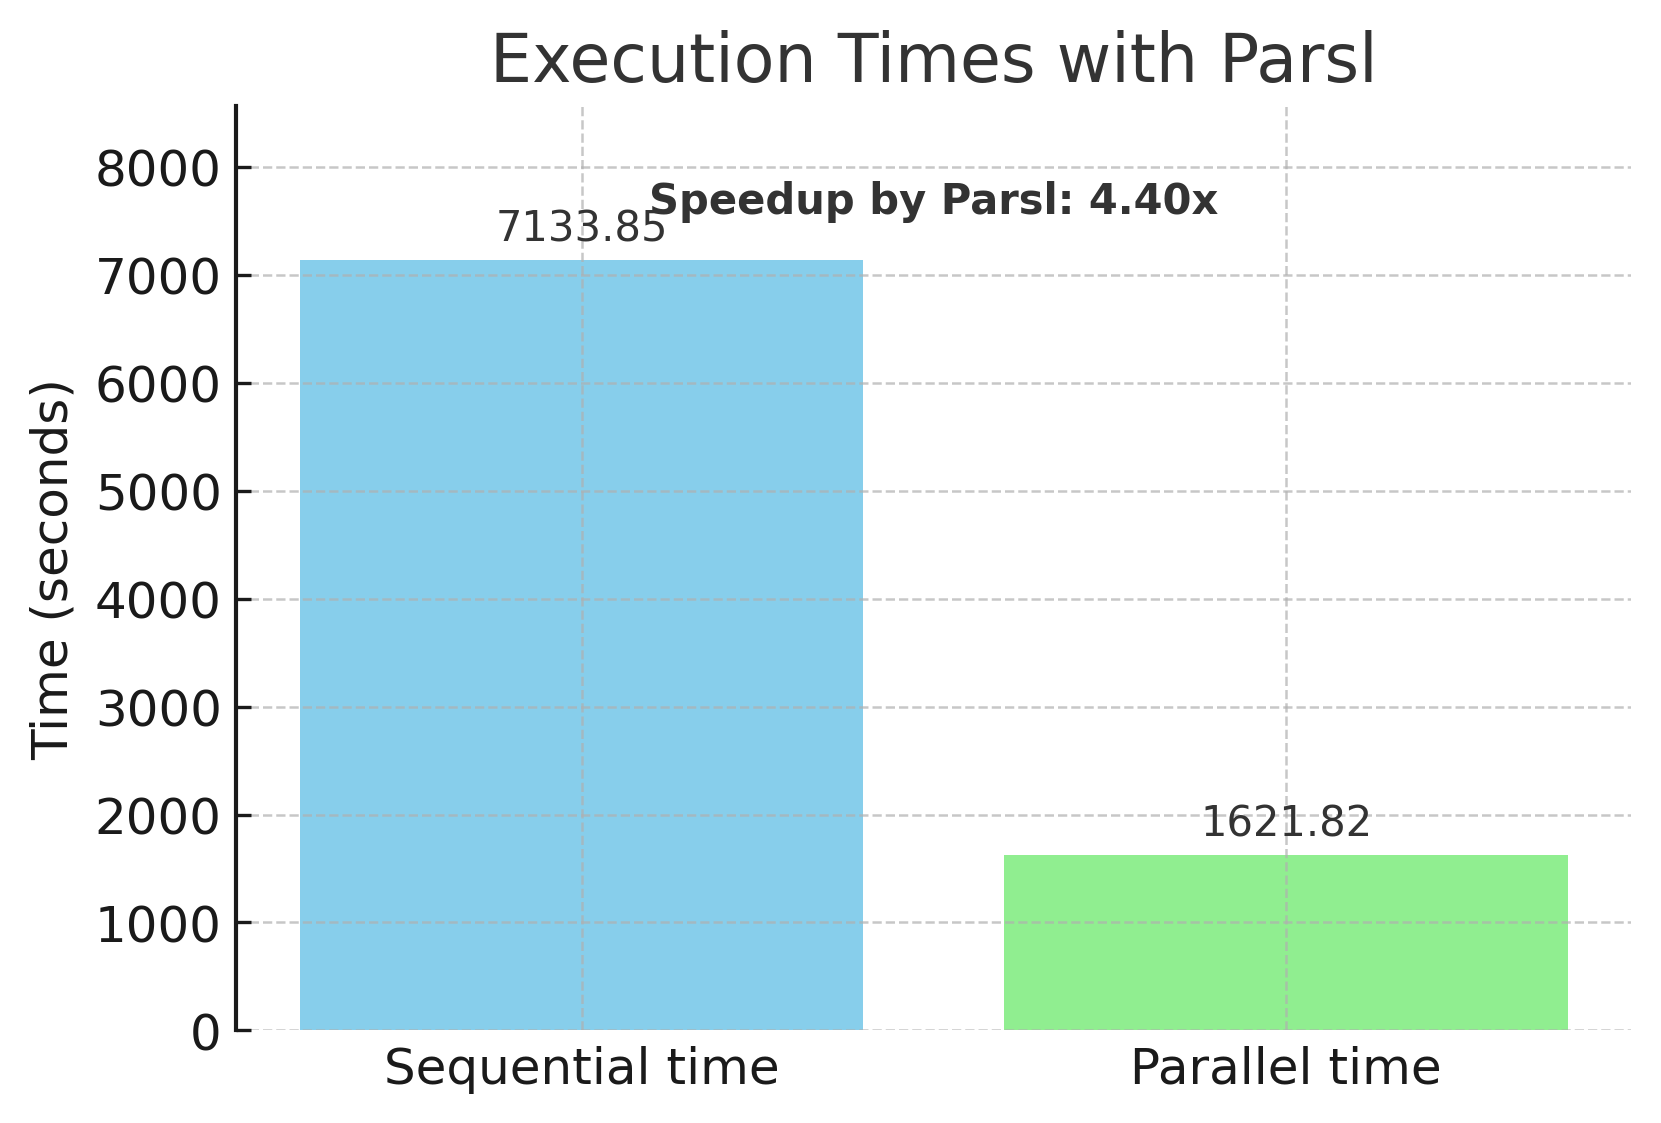
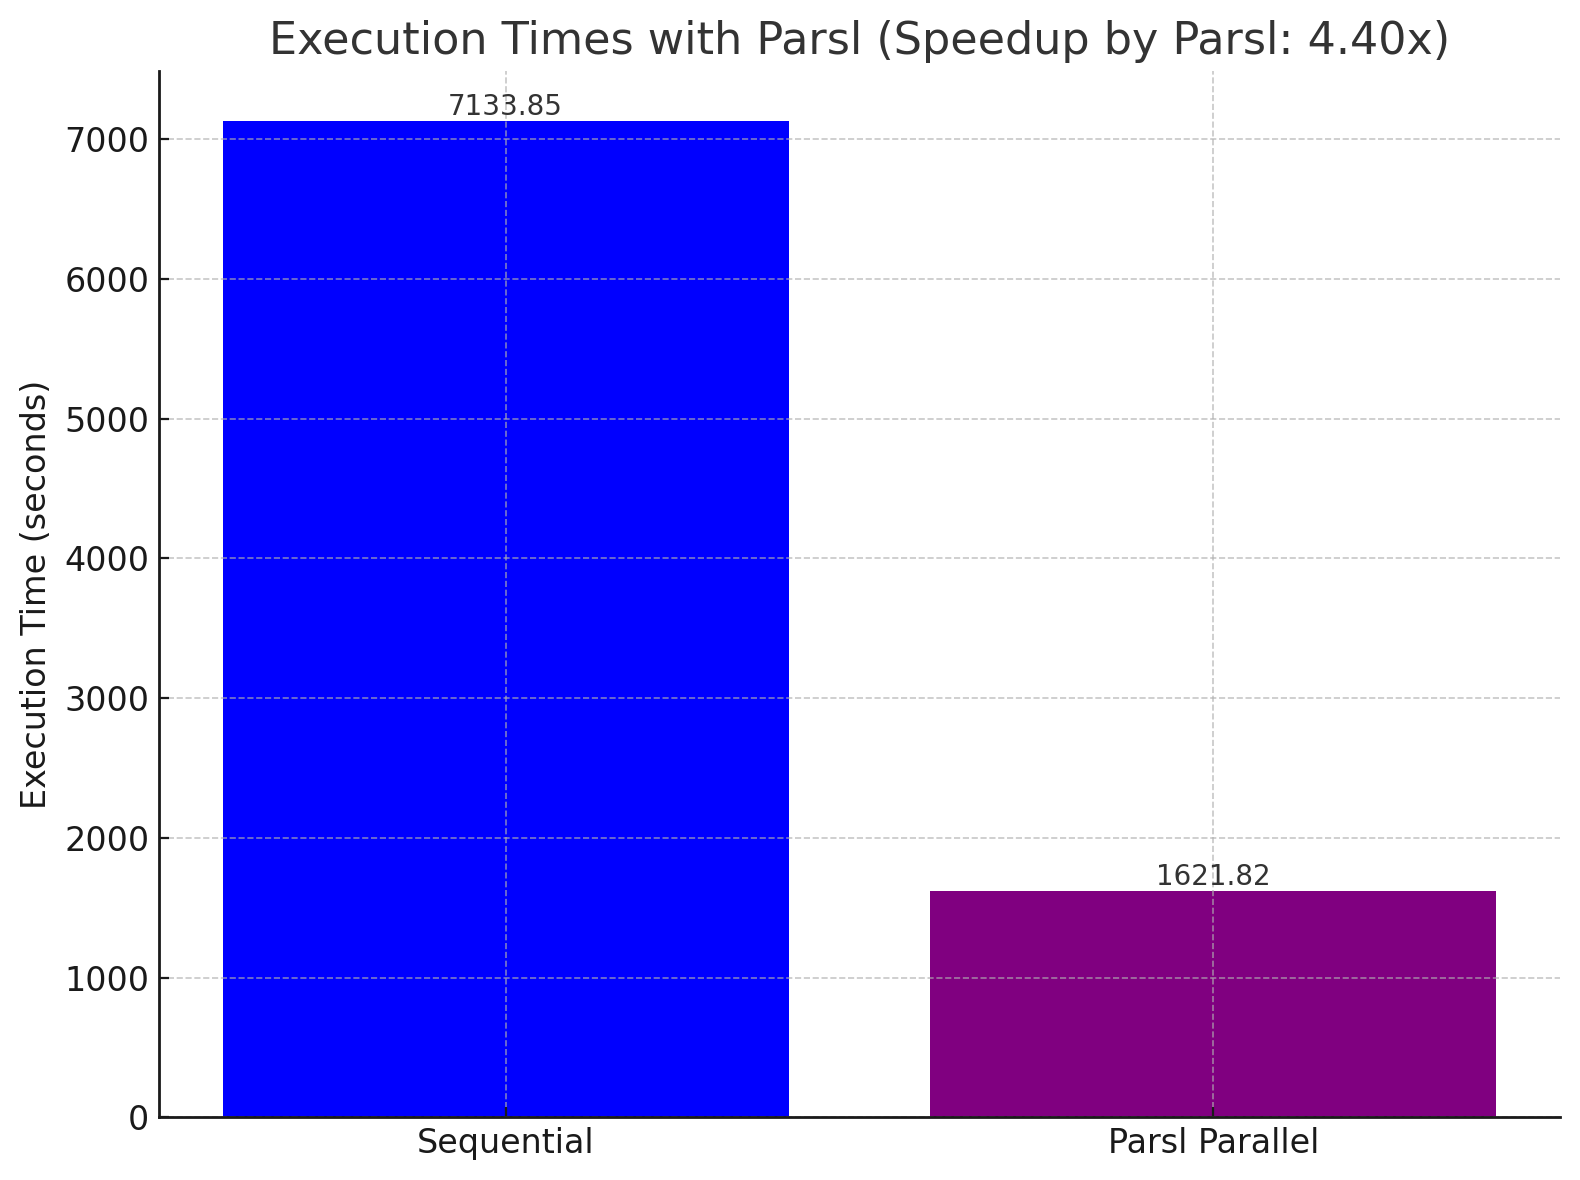
Minor changes

diff --git a/booktests/parslTestbookQMCblog.tex b/booktests/parslTestbookQMCblog.tex
@@ -1,6 +1,6 @@
 \begin{comment}
 \title{parslTestbookQMCblog}
-\author{Dr. Sou-Cheng Choi, Illinois Tech and SouLab, Joshua Jay Herman (QMC Development Team)}
+\author{Joshua Jay Herman (QMC Development Team),  Brandon Sharp, and Sou-Cheng Choi (Illinois Tech and SouLab LLC)}
 \date{September 2025}
 
 \maketitle
@@ -14,7 +14,7 @@ Accelerating QMCpy Notebook Tests with Parsl
 
 \subsection{Methodology}
 
- Choosing Testbook \cite{testbook2021} is motivated by the ability of writing a test that can execute the notebook itself and it also fits well with our tests in a separate directory, where we have already implemented other tests without requiring execution of the full notebooks for clarity. We made a test harness that we could also have Parsl \cite{parsl2019} execute our testbook unit tests since it is embarrassingly parallel problem..
+ Choosing Testbook \cite{testbook2021} is motivated by the ability to write a test that can execute the notebook itself. It also fits well with our tests in a separate directory, where we have already implemented other tests without requiring execution of the full notebooks for clarity. We made a test harness that we could also have Parsl \cite{parsl2019} execute our testbook unit tests, an it is an embarrassingly parallel problem.
 
 \subsection{Results}
 
@@ -27,14 +27,41 @@ After expanding our test coverage to search for syntax errors in additional note
     \caption{Parallel testing speedup using Parsl against sequential execution of tests.}
     \label{fig:parsl_speedup}
 \end{figure}
+% import matplotlib.pyplot as plt
+%
+%# Data
+%labels = ["Sequential", "Parsl Parallel"]
+%times = [7133.85, 1621.82]
+%
+%# Compute speedup
+%speedup = times[0] / times[1]
+%
+%plt.figure(figsize=(8, 6))
+%bars = plt.bar(labels, times, color=["blue", "purple"])
+%plt.ylabel("Execution Time (seconds)")
+%plt.title(f"Execution Times with Parsl (Speedup by Parsl: {speedup:.2f}x)")
+%
+%# Annotate bars with exact values
+%for bar, t in zip(bars, times):
+%    height = bar.get_height()
+%    plt.text(
+%        bar.get_x() + bar.get_width() / 2,
+%        height,
+%        f"{t:.2f}",
+%        ha="center",
+%        va="bottom",
+%    )
+%
+%plt.tight_layout()
+%plt.show()
 
-This was tested on a Linux system running on an AMD64 architecture with 16 CPU cores. If you want to run the tests we have made for QMCPy you can run 'make testbook'
+This was tested on a Linux system running on an AMD64 architecture with 16 CPU cores. If you want to run the tests we have made for QMCPy, you can run 'make testbook'
 
 \subsection{Further Work}
 
-Due to the above results, this indicates that we should extend our testing to doctest and pytests in Parsl.
+Due to the above results, this indicates that we should extend our testing to doctest and `pytest` in Parsl.
 
-Now, because many people have multi‑core processors, we can increase individual productivity so that our tests can demonstrate that no regressions have been introduced.
+Now, because many people have multicore processors, we can increase individual productivity so that our tests can demonstrate that no regressions have been introduced.
 
 Furthermore, regarding feedback on the presentation to the ParslFest participants, the system is quite general. This suggests a distributed test system could benefit Parsl users by enabling them to distribute their own test workloads.
 

diff --git a/GBM/gbm.tex b/GBM/gbm.tex
@@ -419,7 +419,7 @@ simulations. Key takeaways include:
 \end{tcolorbox}
 
 \subsection*{Acknowledgments}
-The authors thank Joshua Jay Herman and Jiangrui Kang for their insightful feedback and help with the blog post. 
+The authors thank Fred Hickernell, Joshua Jay Herman and Jiangrui Kang for their insightful feedback and help with the blog post. 
 %\bibliography{FJH23,FJHown23,main} \begin{thebibliography}{6}
 
 % \bibitem[1]{glasserman2003} Glasserman, P. (2003). \textit{Monte Carlo Methods
